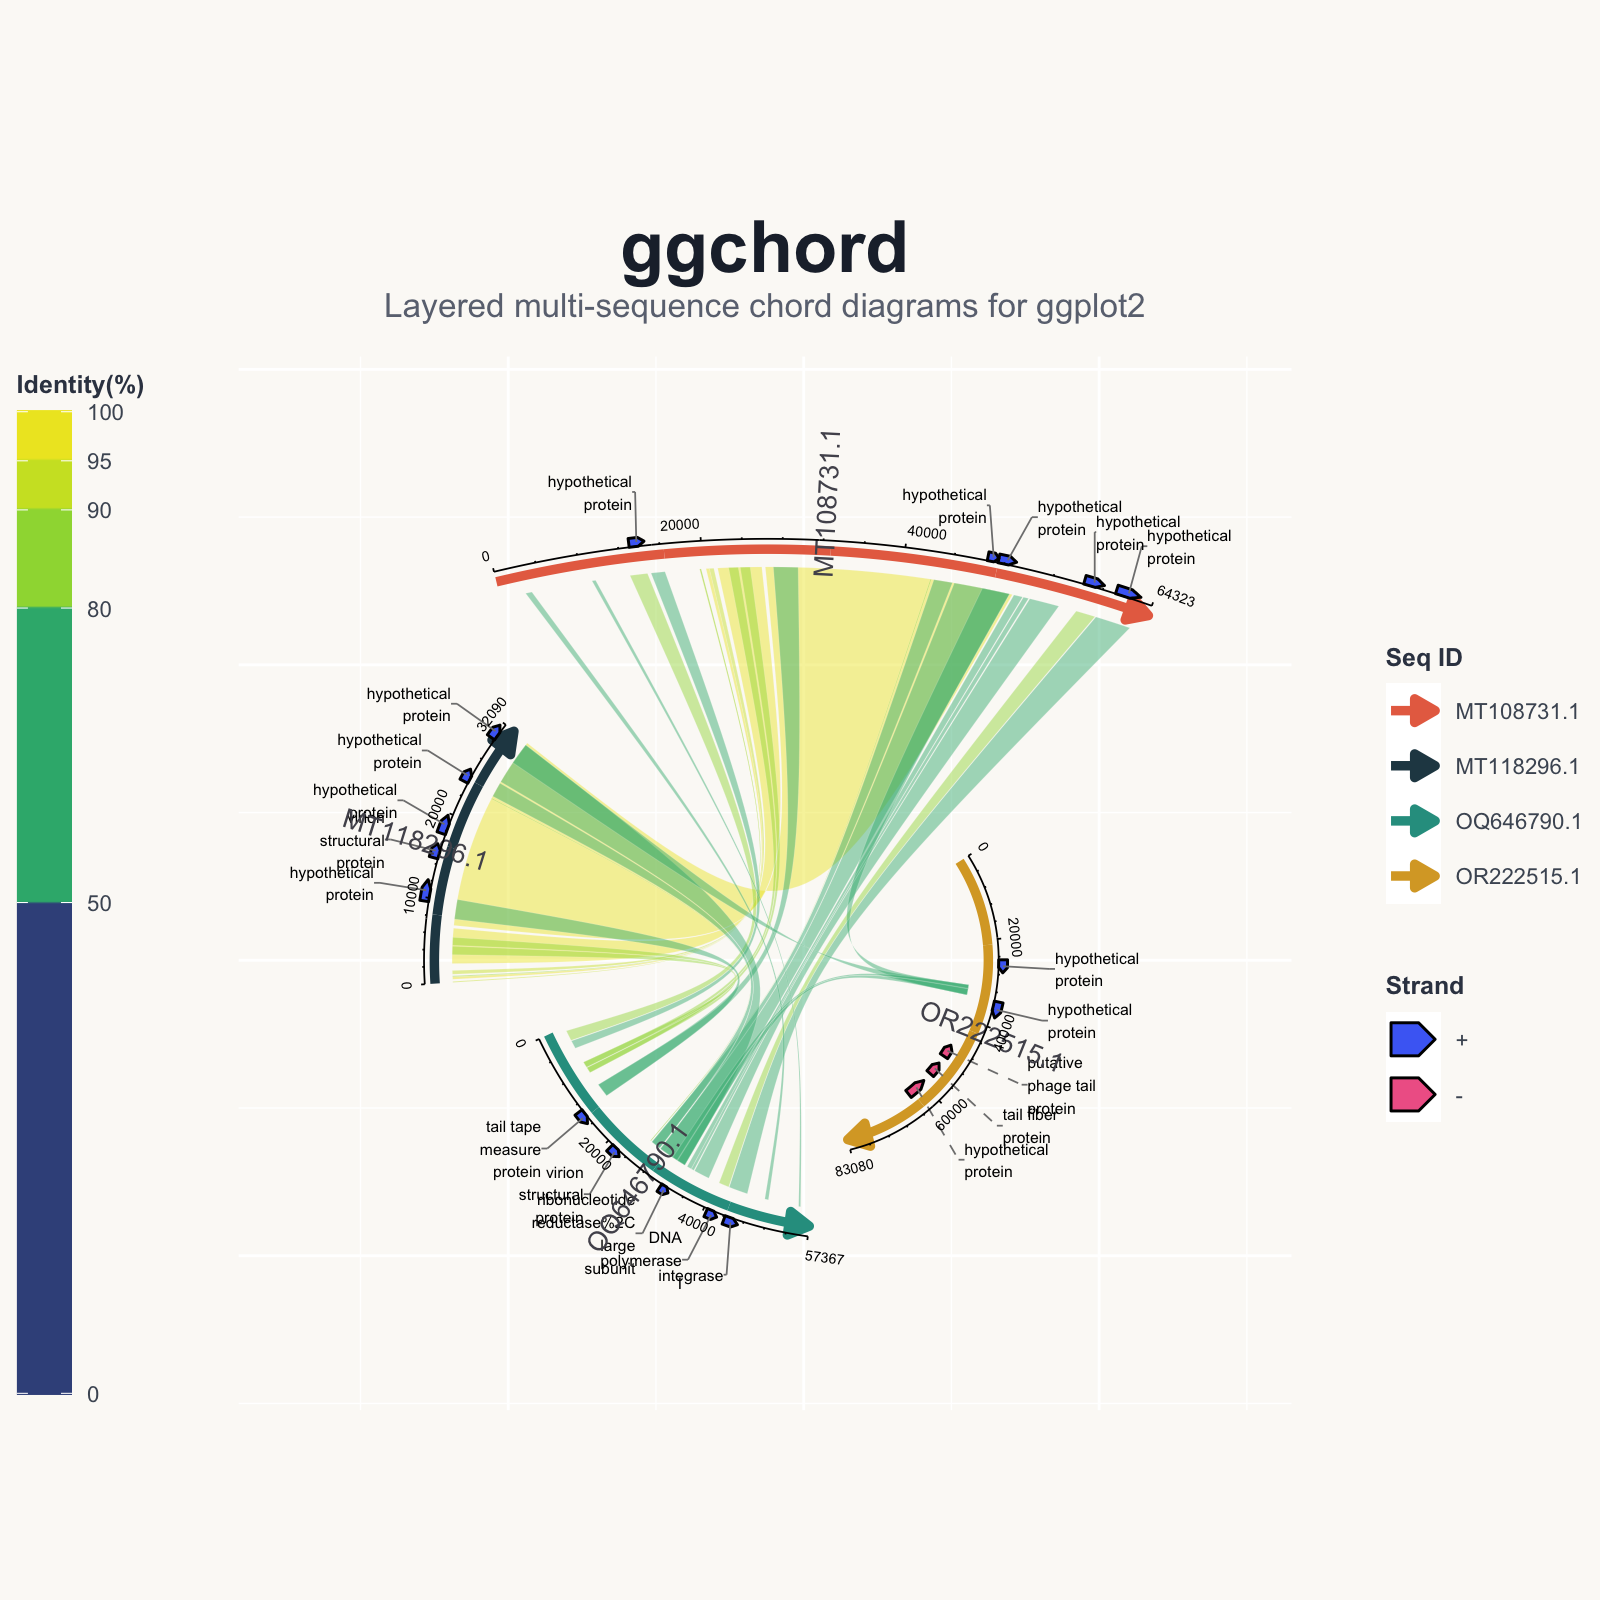
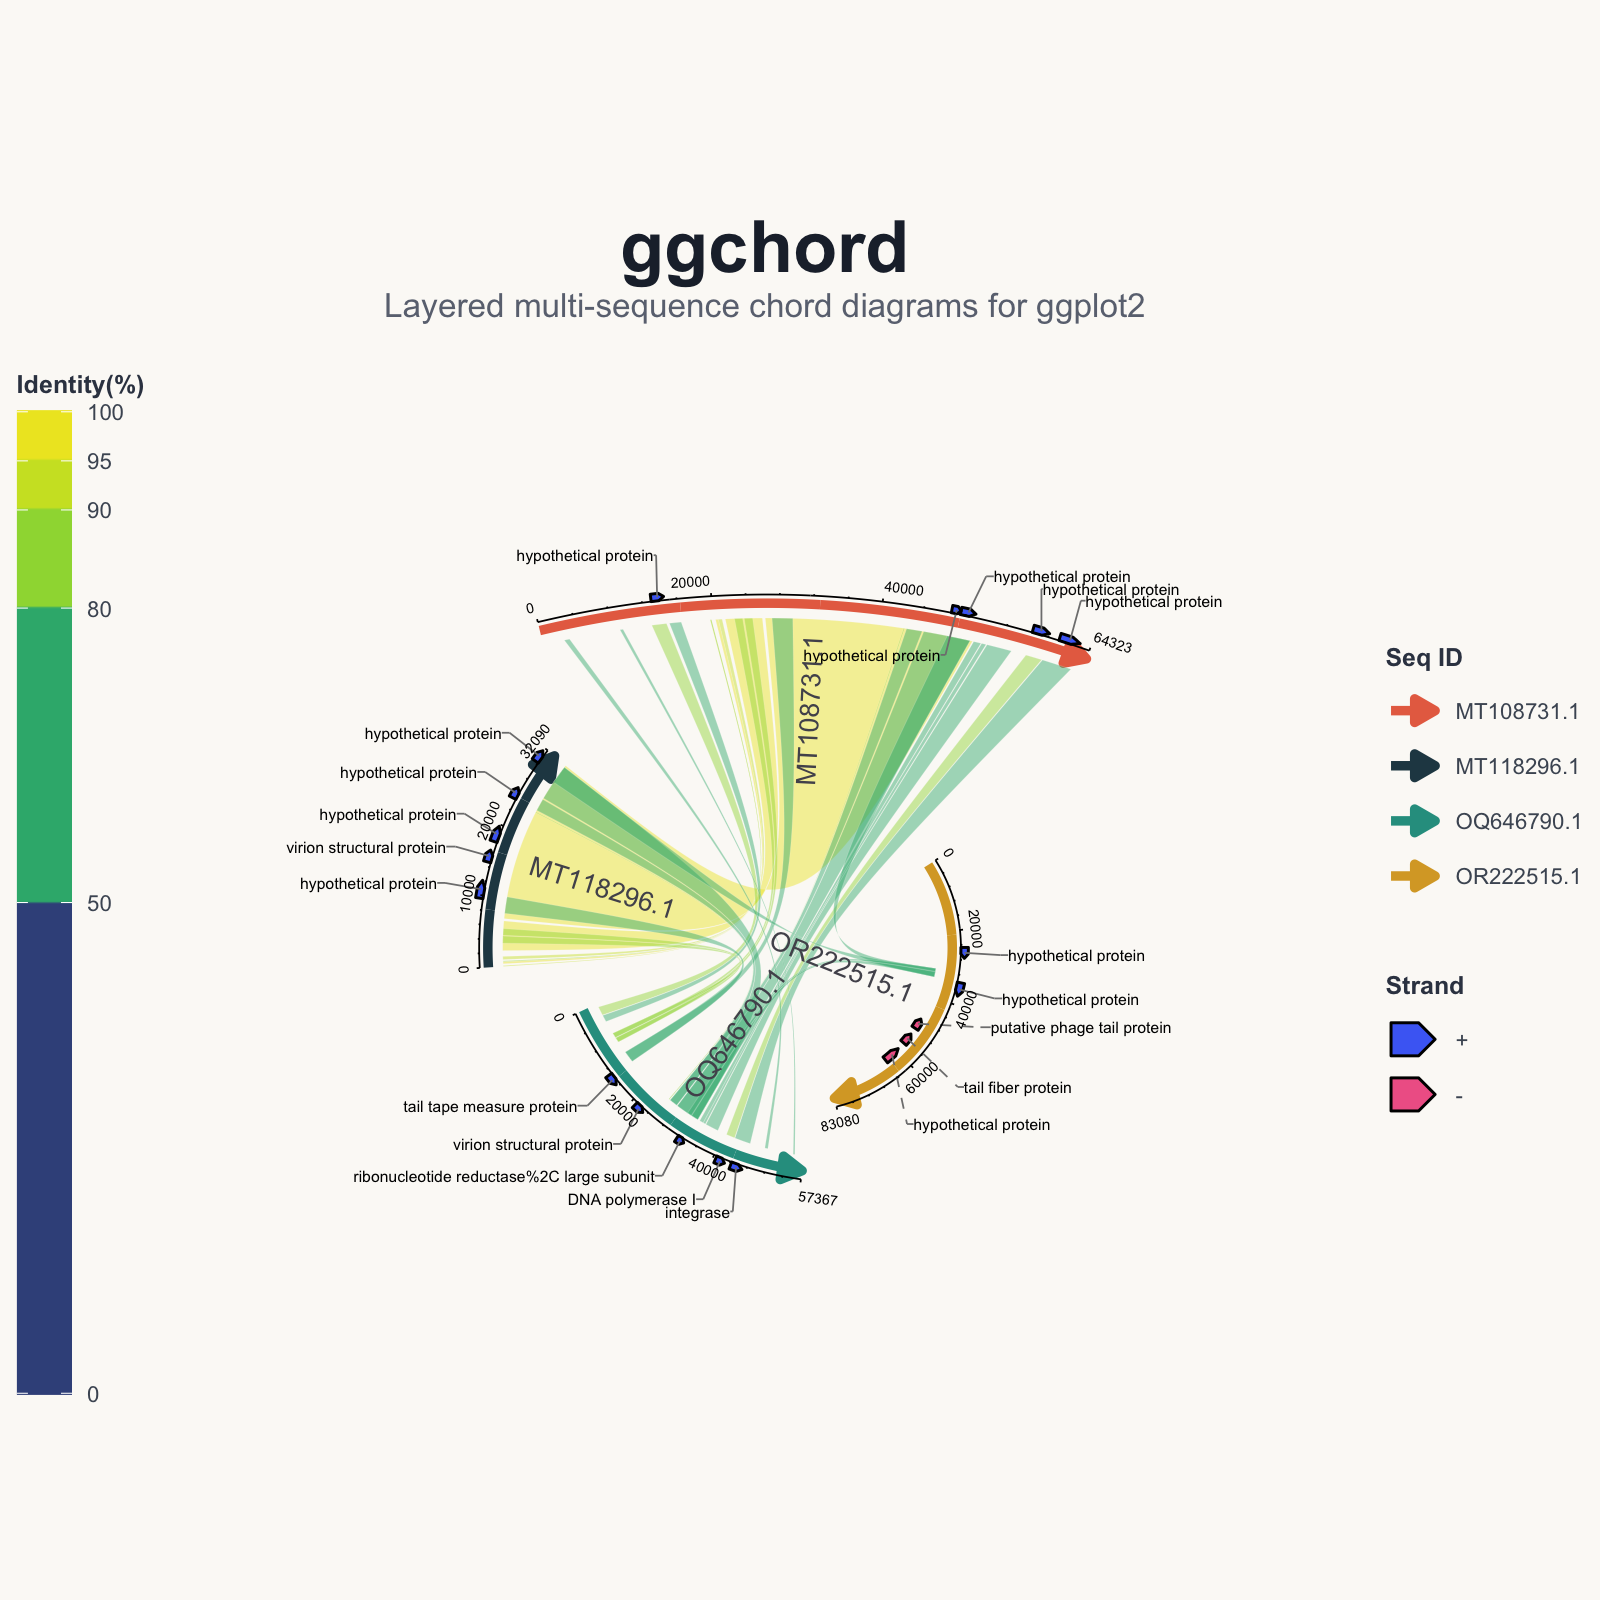
v0.6.0 preview version 22

Changed region(s): [[0.1875, 0.2812, 0.75, 0.8125], [0.375, 0.4375, 0.4062, 0.4688], [0.3438, 0.2812, 0.375, 0.3125]]

diff --git a/NEWS.md b/NEWS.md
@@ -1,46 +1,3 @@
-# ggchord 0.7.0
-
-## New features
-
-* `geom_gene_label_repel()` gains `gene_label_side = "auto" | "inside" |
-  "outside"`. With `"outside"`, labels that would sit inside the chord (where
-  they can overlap the ribbons) are mirrored to the outside of their sequence
-  arc, keeping the same radial distance from the arc.
-
-* New `gene_label_segment_linetype` argument controls the leader-line linetype.
-  The default `"auto"` draws solid lines, except for labels that were moved to
-  the other side of their arc (`gene_label_side`), which are drawn dashed. Any
-  other valid ggplot2 linetype (e.g. `"dotted"` or a numeric dash pattern) is
-  applied to all leader lines.
-
-* `geom_seq_label()` now documents and follows the intended `seq_label_radius`
-  semantics: `1` sits on the arc, `> 1` places the label outside (away from
-  the chord center) and `< 1` inside. Previously the multiplier was applied in
-  the opposite direction (the default `1.15` put labels *inside* the chord).
-
-* New `geom_seq_label()` options: `seq_label_orientation = "arc" | "horizontal"`
-  (horizontal labels extend away from the chord center),
-  `seq_label_hjust` / `seq_label_vjust` for per-sequence justification, and
-  `check_overlap` to skip labels that would overlap.
-
-## Improvements
-
-* Elbow leader lines no longer force fixed segment lengths: the stub scales
-  with each label's text width and the horizontal space available between the
-  gene and the label, so labels can be placed more flexibly without
-  degenerate (near-zero) stubs.
-
-## Bug fixes
-
-* Sequence (and gene) labels no longer end up upside down when a global
-  `rotation >= 90` is used: the readability flip is now re-applied after the
-  layout rotation instead of only before it.
-
-* The repulsion spring now pulls labels toward their own starting position
-  rather than the leader-line anchor, which keeps labels moved with
-  `gene_label_side = "outside"` on the outside while their leader line still
-  starts at the gene.
-
 # ggchord 0.6.0
 
 ## New features
@@ -78,6 +35,36 @@
   alignment/gene coordinates, `pident` outside [0, 100], and sequence IDs that
   are not present in `seq_data`.
 
+* `geom_gene_label_repel()` gains `gene_label_side = "auto" | "inside" |
+  "outside"`. With `"outside"`, labels that would sit inside the chord (where
+  they can overlap the ribbons) are mirrored to the outside of their sequence
+  arc, keeping the same radial distance from the arc.
+
+* New `gene_label_segment_linetype` argument controls the leader-line linetype.
+  The default `"auto"` draws solid lines, except for labels that were moved to
+  the other side of their arc (`gene_label_side`), which are drawn dashed. Any
+  other valid ggplot2 linetype (e.g. `"dotted"` or a numeric dash pattern) is
+  applied to all leader lines.
+
+* Elbow leader lines no longer force fixed segment lengths: the stub scales
+  with each label's text width and the horizontal space available between the
+  gene and the label, so labels can be placed more flexibly without
+  degenerate (near-zero) stubs.
+
+* `geom_seq_label()` now documents and follows the intended `seq_label_radius`
+  semantics: `1` sits on the arc, `> 1` places the label outside (away from
+  the chord center) and `< 1` inside. Previously the multiplier was applied in
+  the opposite direction (the default `1.15` put labels *inside* the chord).
+
+* New `geom_seq_label()` options: `seq_label_orientation = "arc" | "horizontal"`
+  (horizontal labels extend away from the chord center),
+  `seq_label_hjust` / `seq_label_vjust` for per-sequence justification, and
+  `check_overlap` to skip labels that would overlap.
+
+* The default theme no longer draws grid lines (`panel.grid` is blank) and
+  legend keys are transparent (they blend into the plot background instead of
+  a fixed white rectangle).
+
 ## Performance
 * Replaced the linear angle lookup in the layout mapping with a binary search
   (`findInterval`), speeding up layout computation for large plots.
@@ -102,13 +89,22 @@
   vertical bar filling the available height at the left/right, and a fixed-size
   horizontal bar at the top/bottom.
 
-* Legend keys keep a fixed white background instead of inheriting
-  `panel.background` (ggplot2 4.x lets unset legend keys follow the panel
-  background, so a coloured panel bled into the legend).
+* Legend keys are transparent and do not inherit `panel.background` (ggplot2
+  4.x lets unset legend keys follow the panel background, so the key fill is
+  set explicitly to stay transparent).
 
 * `plotly::ggplotly()` output now shows the Seq ID / Strand / Identity legends
   (the layout-level `showlegend` switch is enabled) and reproduces the
   `geom_seq()` directional arrowheads as plotly annotations.
+
+* Sequence (and gene) labels no longer end up upside down when a global
+  `rotation >= 90` is used: the readability flip is now re-applied after the
+  layout rotation instead of only before it.
+
+* The repulsion spring now pulls labels toward their own starting position
+  rather than the leader-line anchor, which keeps labels moved with
+  `gene_label_side = "outside"` on the outside while their leader line still
+  starts at the gene.
 
 ## New features
 * Each legend can now be positioned independently via the `legend_position`

diff --git a/pkgdown/index.md b/pkgdown/index.md
@@ -404,48 +404,84 @@ ggchord(seq3, ribbon3, gene3) +
 
 #### Step 7: Combine everything and fine-tune
 
-Every layer accepts fine-grained parameters. Here, each layer receives the
-parameters that belong to it:
+Every layer accepts fine-grained parameters. The plot below puts them all
+together: per-sequence radii, orientations and curvatures, identity-colored
+ribbons, strand-colored gene arrows, repelled labels pushed outside the arcs
+(so they never cover the ribbons), sequence names, position axes, and a custom
+theme with a curated palette:
 
 ```r
 ggchord(
-  seq_data    = seq_data_example,
-  ribbon_data = ribbon_data_example,
-  gene_data   = gene_data_example,
-  title       = "Multi-sequence Chord Diagram with Gene Annotations",
-  rotation    = 45
+  seq_data     = seq_data_example,
+  ribbon_data  = ribbon_data_example,
+  gene_data    = gene_data_example,
+  title        = "ggchord",
+  rotation     = 45,
+  panel_margin = list(t = 1.5, r = 0.6, b = 0.6, l = 0.6)
 ) +
+  labs(subtitle = "Layered multi-sequence chord diagrams for ggplot2") +
   geom_seq(
-    seq_radius      = c(3, 2, 2, 1),
-    seq_orientation = c(-1, -1, -1, 1),
-    seq_curvature   = c(0, 1, -1, 1.5),
-    seq_gap         = 0.03
+    seq_radius      = c(3.3, 2.5, 1.8, 1.25),
+    seq_orientation = c(-1, -1, 1, -1),
+    seq_curvature   = c(0.8, 1, 1.4, 1),
+    seq_gap         = 0.035,
+    seq_colors      = c(
+      "MT108731.1" = "#E76F51",
+      "MT118296.1" = "#264653",
+      "OQ646790.1" = "#2A9D8F",
+      "OR222515.1" = "#D9A62E"
+    ),
+    linewidth = 1.6
   ) +
   geom_ribbon(
     ribbon_color_scheme = "pident",
-    ribbon_gap = 0.1
+    ribbon_gap = 0.12,
+    ribbon_alpha = 0.45,
+    ribbon_outline_color = "#FBF9F6",
+    ribbon_outline_width = 0.03
   ) +
   geom_gene(
-    gene_offset = list(
-      c("+" = 0.2, "-" = -0.2),
-      c("+" = 0.2, "-" = -0.2),
-      c("+" = 0.2, "-" = 0),
-      c("+" = 0.2, "-" = 0.1)
-    ),
-    gene_width = 0.08
+    gene_offset = 0.1,
+    gene_width = 0.06,
+    gene_colors = c("+" = "#4C6EF5", "-" = "#F06595")
   ) +
-  geom_gene_label(
-    gene_label_rotation = list(
-      c("+" = 45, "-" = -45),
-      c("+" = 30, "-" = -30),
-      c("+" = 15, "-" = -15),
-      c("+" = 0,  "-" = 0)
-    )
+  geom_gene_label_repel(
+    gene_label_orientation = "horizontal",
+    gene_label_segment = "elbow",
+    gene_label_side = "outside",
+    gene_label_wrap = 0,
+    gene_label_size = 2,
+    seed = 42
+  ) +
+  geom_seq_label(
+    seq_label_radius = 1,
+    seq_label_hjust = -.2,
+    seq_label_size = 3.4,
+    colour = "#52525B"
   ) +
   geom_axis(
-    axis_gap = 0.05,
-    axis_tick_major_length = 0.03,
-    axis_label_size = 2
+    axis_gap = 0.07,
+    axis_tick_major_number = 4,
+    axis_tick_major_length = 0.025,
+    axis_tick_minor_number = 4,
+    axis_tick_minor_length = 0.012,
+    axis_label_size = 1.8
+  ) +
+  theme(
+    plot.background  = element_rect(fill = "#FBF9F6", colour = NA),
+    panel.background = element_rect(fill = "#FBF9F6", colour = NA),
+    plot.title       = element_text(
+      size = 26, face = "bold", colour = "#1F2937",
+      hjust = 0.5, margin = margin(t = 10, b = 2)
+    ),
+    plot.subtitle = element_text(
+      size = 12, colour = "#6B7280",
+      hjust = 0.5, margin = margin(b = 12)
+    ),
+    legend.position = "right",
+    legend.title    = element_text(size = 9, face = "bold", colour = "#374151"),
+    legend.text     = element_text(size = 8, colour = "#4B5563"),
+    legend.key.size = unit(0.7, "cm")
   )
 ```
 

diff --git a/README.md b/README.md
@@ -493,12 +493,13 @@ ggchord(
     gene_label_orientation = "horizontal",
     gene_label_segment = "elbow",
     gene_label_side = "outside",
-    gene_label_wrap = 12,
+    gene_label_wrap = 0,
     gene_label_size = 2,
     seed = 42
   ) +
   geom_seq_label(
-    seq_label_radius = 1.1,  # > 1 places the names outside the arcs
+    seq_label_radius = 1,
+    seq_label_hjust = -.2,
     seq_label_size = 3.4,
     colour = "#52525B"
   ) +

diff --git a/README-Hans.md b/README-Hans.md
@@ -459,12 +459,13 @@ ggchord(
     gene_label_orientation = "horizontal",
     gene_label_segment = "elbow",
     gene_label_side = "outside",
-    gene_label_wrap = 12,
+    gene_label_wrap = 0,
     gene_label_size = 2,
     seed = 42
   ) +
   geom_seq_label(
-    seq_label_radius = 1.1,  # 大于 1 时名称放在弧线外侧
+    seq_label_radius = 1,
+    seq_label_hjust = -.2,
     seq_label_size = 3.4,
     colour = "#52525B"
   ) +
